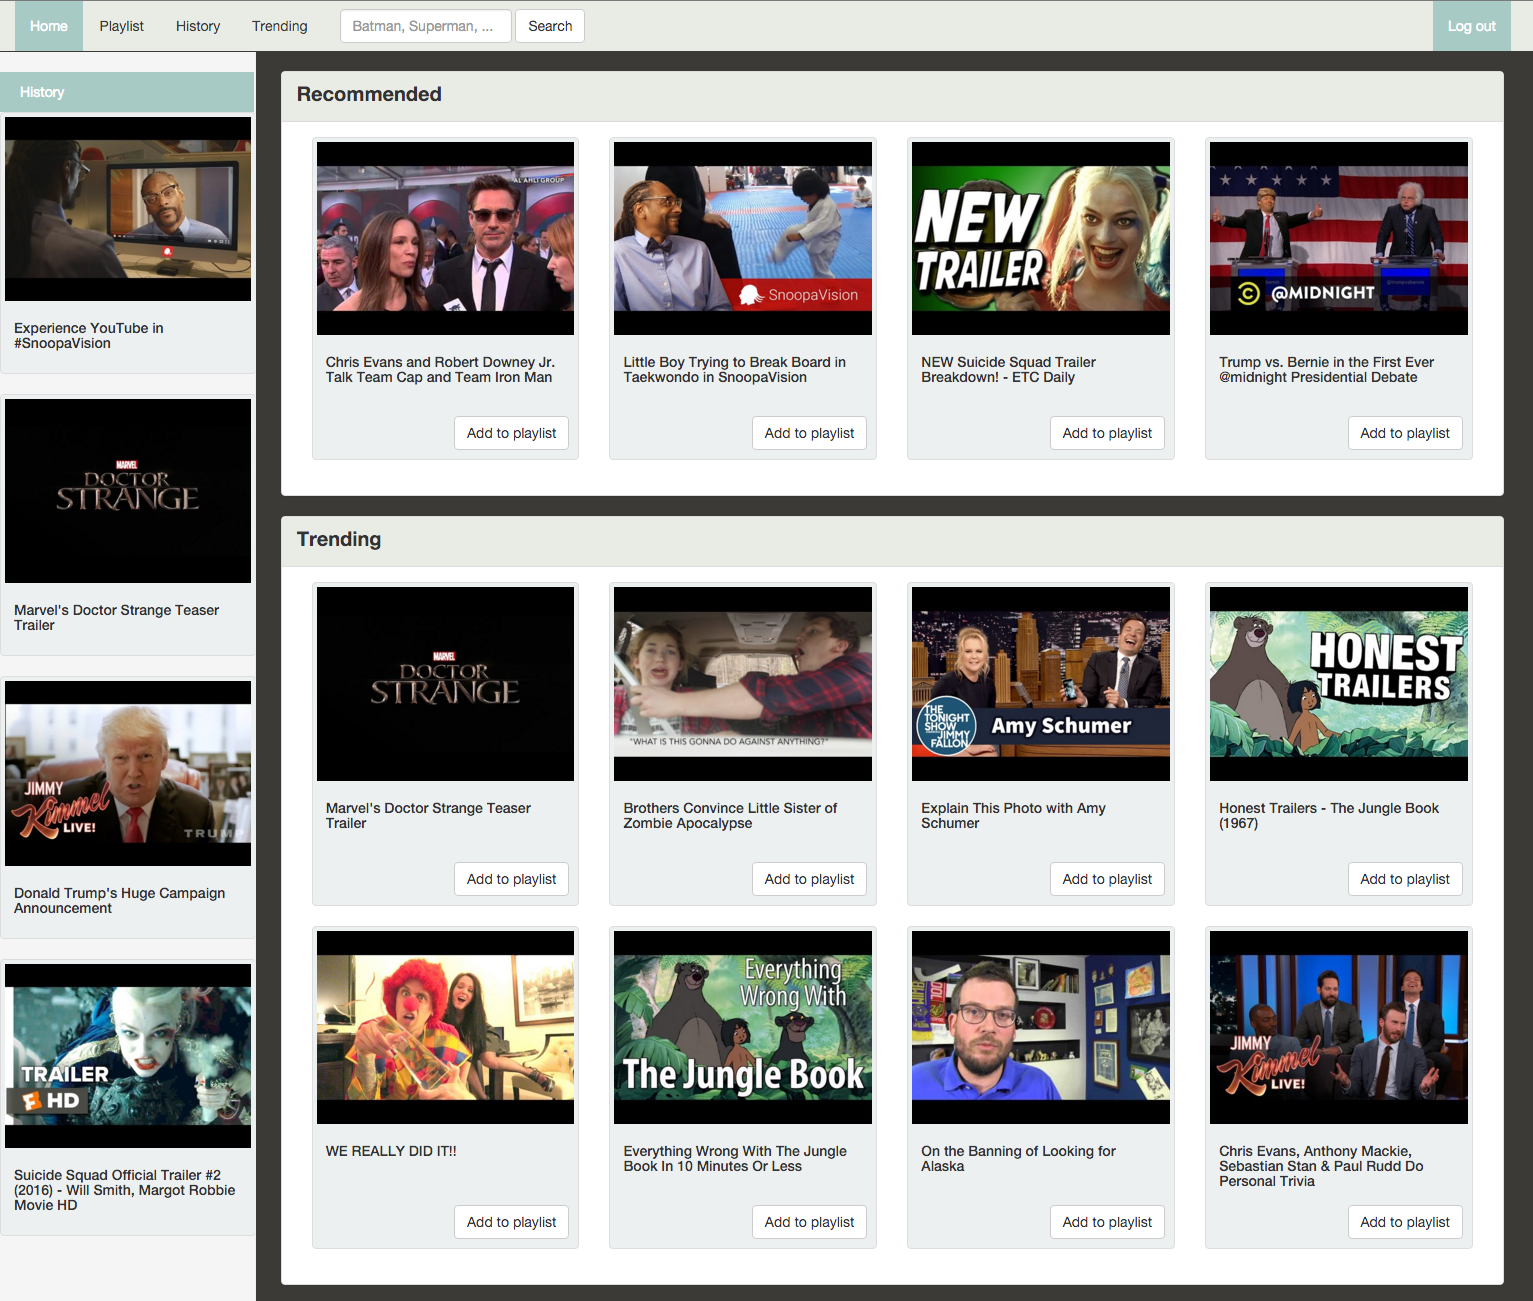
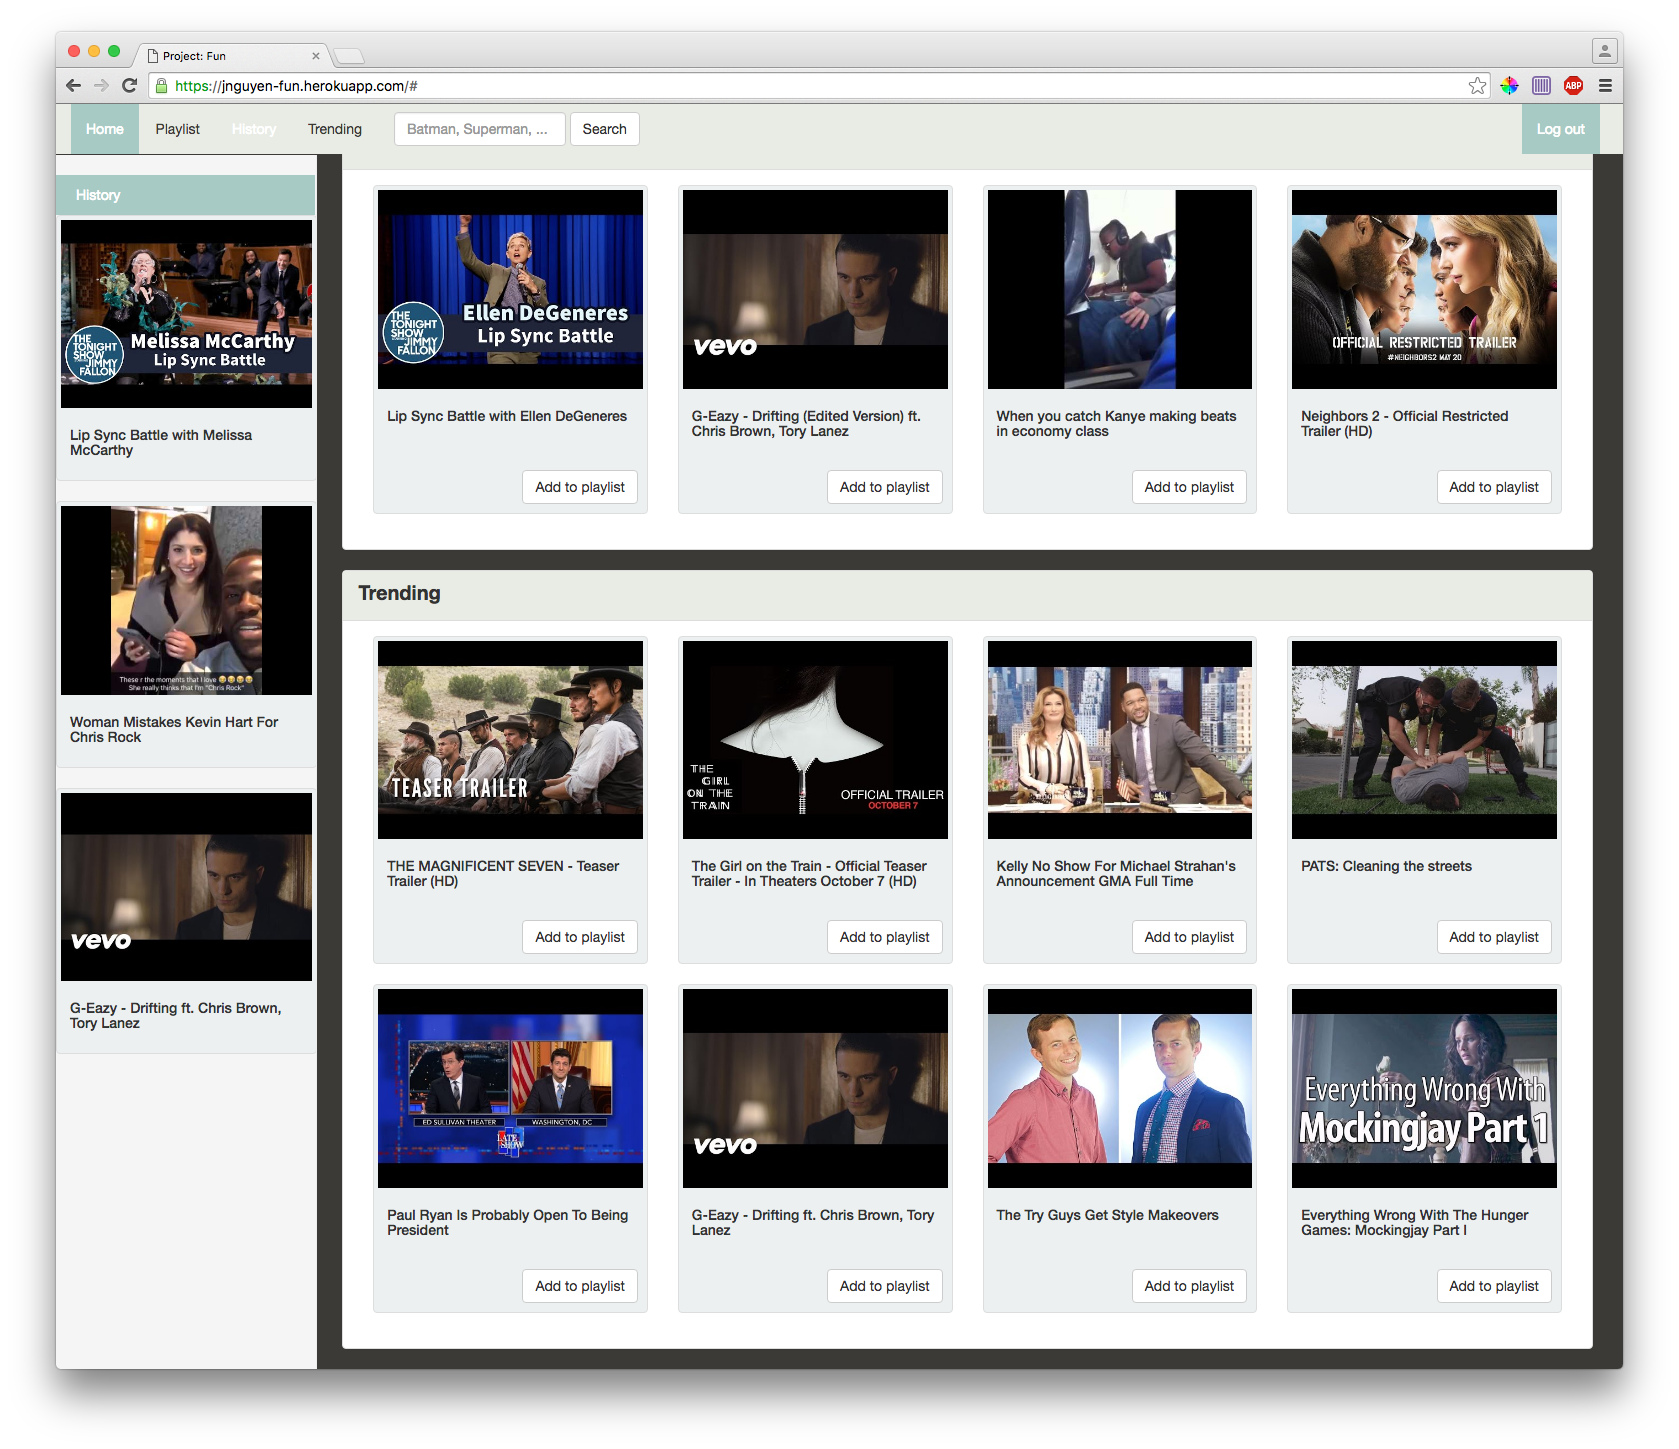
I added more screenshot and description about the application.

diff --git a/README.md b/README.md
@@ -12,4 +12,8 @@
 
 ## Video load page:
 
-![Fun video page](https://github.com/jnguyen3950/fun/blob/master/img/screenshot1.png)
+![Fun video page](https://github.com/jnguyen3950/fun/blob/master/img/screenshot2.png)
+
+## Video search page:
+
+![Fun search page](https://github.com/jnguyen3950/fun/blob/master/img/screenshot3.png)
